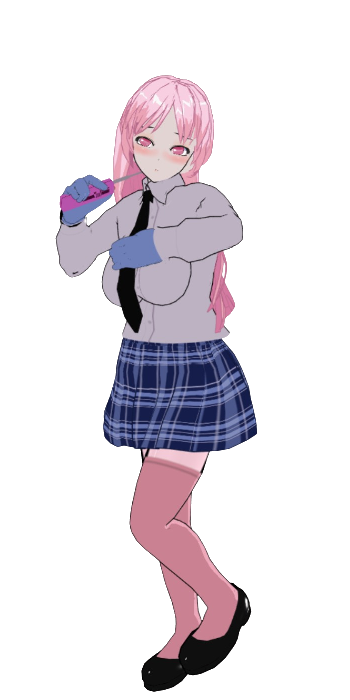
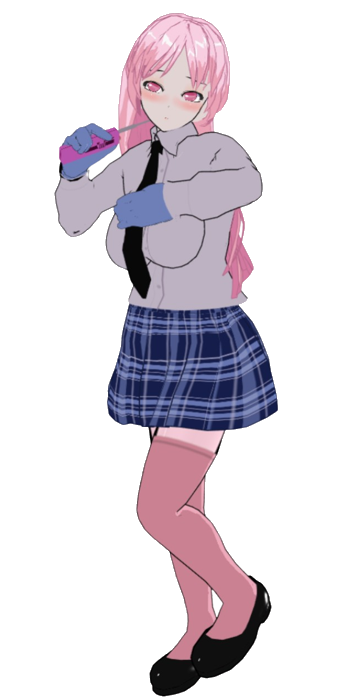
Update picture size, kidnap remove max 1 card, move alvin logic order

Changed region(s): [[0.1429, 0.0, 0.8, 1.0]]

diff --git a/BondageClub/Screens/MiniGame/ClubCard/ClubCard.js b/BondageClub/Screens/MiniGame/ClubCard/ClubCard.js
@@ -1421,19 +1421,19 @@ var ClubCardList = [
 		Prerequisite: "SelectOpponentMember",
 		OnPlay: function(CCPlayer) {
 			if (ClubCardSelection == null) return;
+
+			const targetIsDominantOrMistress = ClubCardSelection.Group &&
+				ClubCardSelection.Group.includes("Dominant") ||
+				ClubCardSelection.Group.includes("Mistress");
+			if(targetIsDominantOrMistress) {
+				ClubCardAlvinCondition(CCPlayer);
+			}
+
 			let Opponent = ClubCardGetOpponent(CCPlayer);
 			ClubCardRemoveFromBoard(Opponent, ClubCardSelection);
 			let Money = Math.pow(Opponent.Level, 2);
 			ClubCardPlayerAddMoney(CCPlayer, Money * -1);
 			ClubCardLogPublish("LoseMoney", CCPlayer, Money);
-
-			const targetIsDominantOrMistress = ClubCardSelection.Group &&
-				ClubCardSelection.Group.includes("Dominant") ||
-				ClubCardSelection.Group.includes("Mistress");
-
-			if(targetIsDominantOrMistress) {
-				ClubCardAlvinCondition(CCPlayer);
-			}
 		},
 		CanPlay: function(CCPlayer) {
 			if(ClubCardEventNameIsInEvents(ClubCardGetOpponent(CCPlayer), "Restrain")) return false;
@@ -1959,14 +1959,14 @@ function ClubCardGroupOnBoardCount(CCPlayer, GroupName) {
  * @returns {void} - Nothing
  */
 function ClubCardRemoveFromBoard(CCPlayer, Card) {
-	if ((CCPlayer == null) || (CCPlayer.Board == null) || (Card == null)) return;
-	let Pos = 0;
-	for (let C of CCPlayer.Board) {
-		if (C.ID === Card.ID) {
-			CCPlayer.Board.splice(Pos, 1);
-			ClubCardLogPublish("MemberLeaveClub", CCPlayer, null, Card);
-		}
-		Pos++;
+	if ((CCPlayer == null) || (CCPlayer.Board == null) || (Card == null)) {
+		return;
+	}
+
+	const indexToRemove = CCPlayer.Board.findIndex(c => c.ID === Card.ID);
+	if(indexToRemove !== -1) {
+		CCPlayer.Board.splice(indexToRemove, 1);
+		ClubCardLogPublish("MemberLeaveClub", CCPlayer, null, Card);
 	}
 }
 
